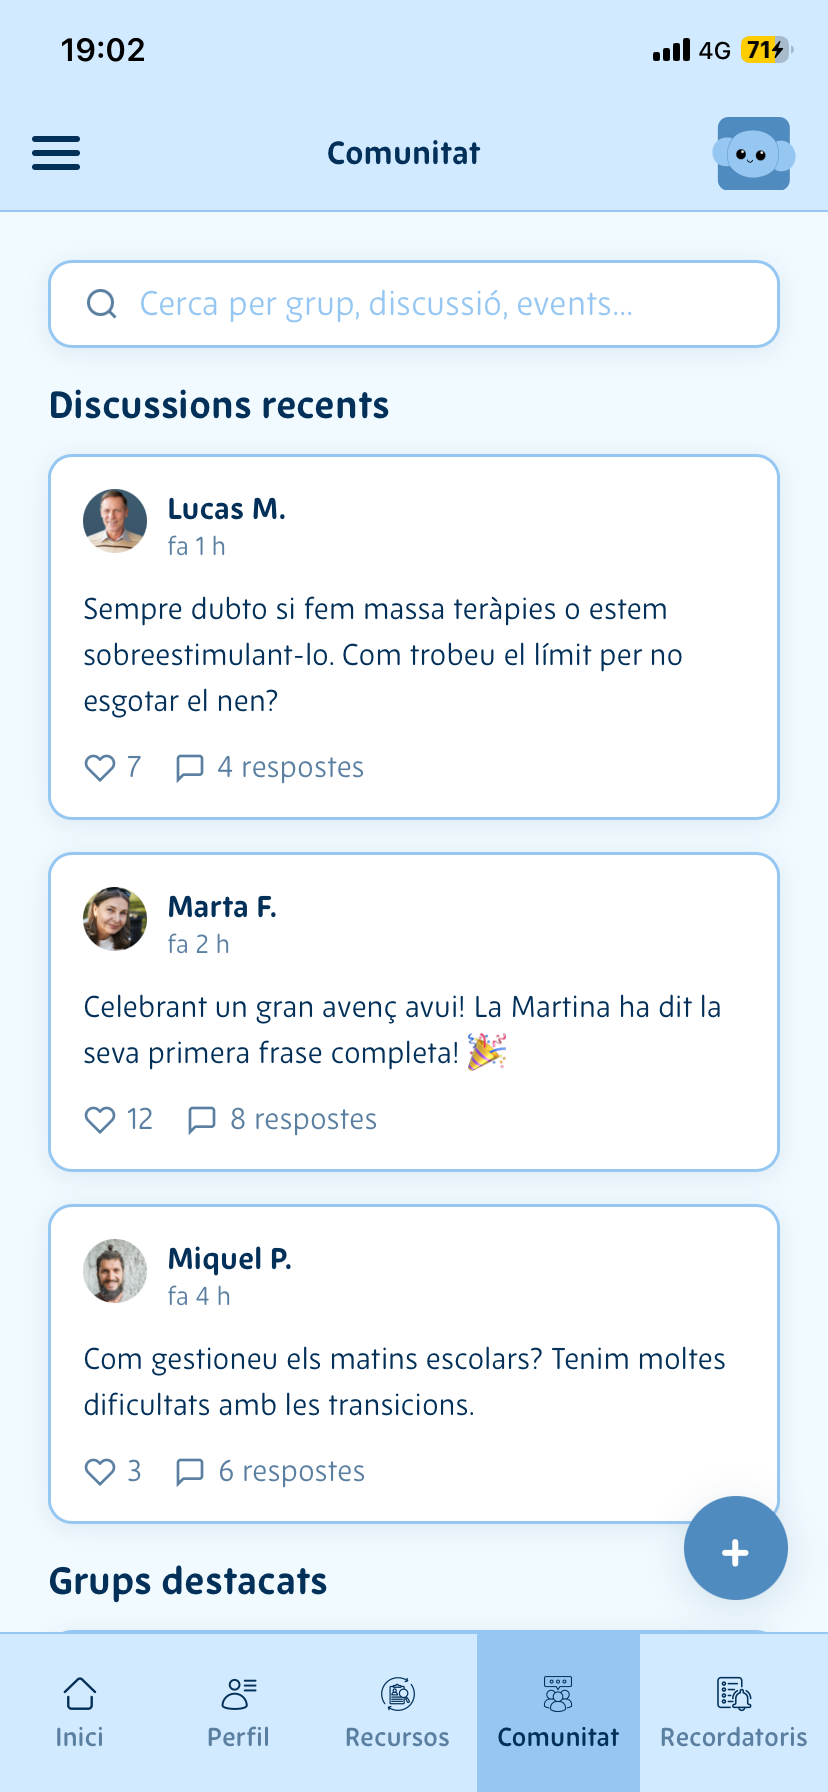
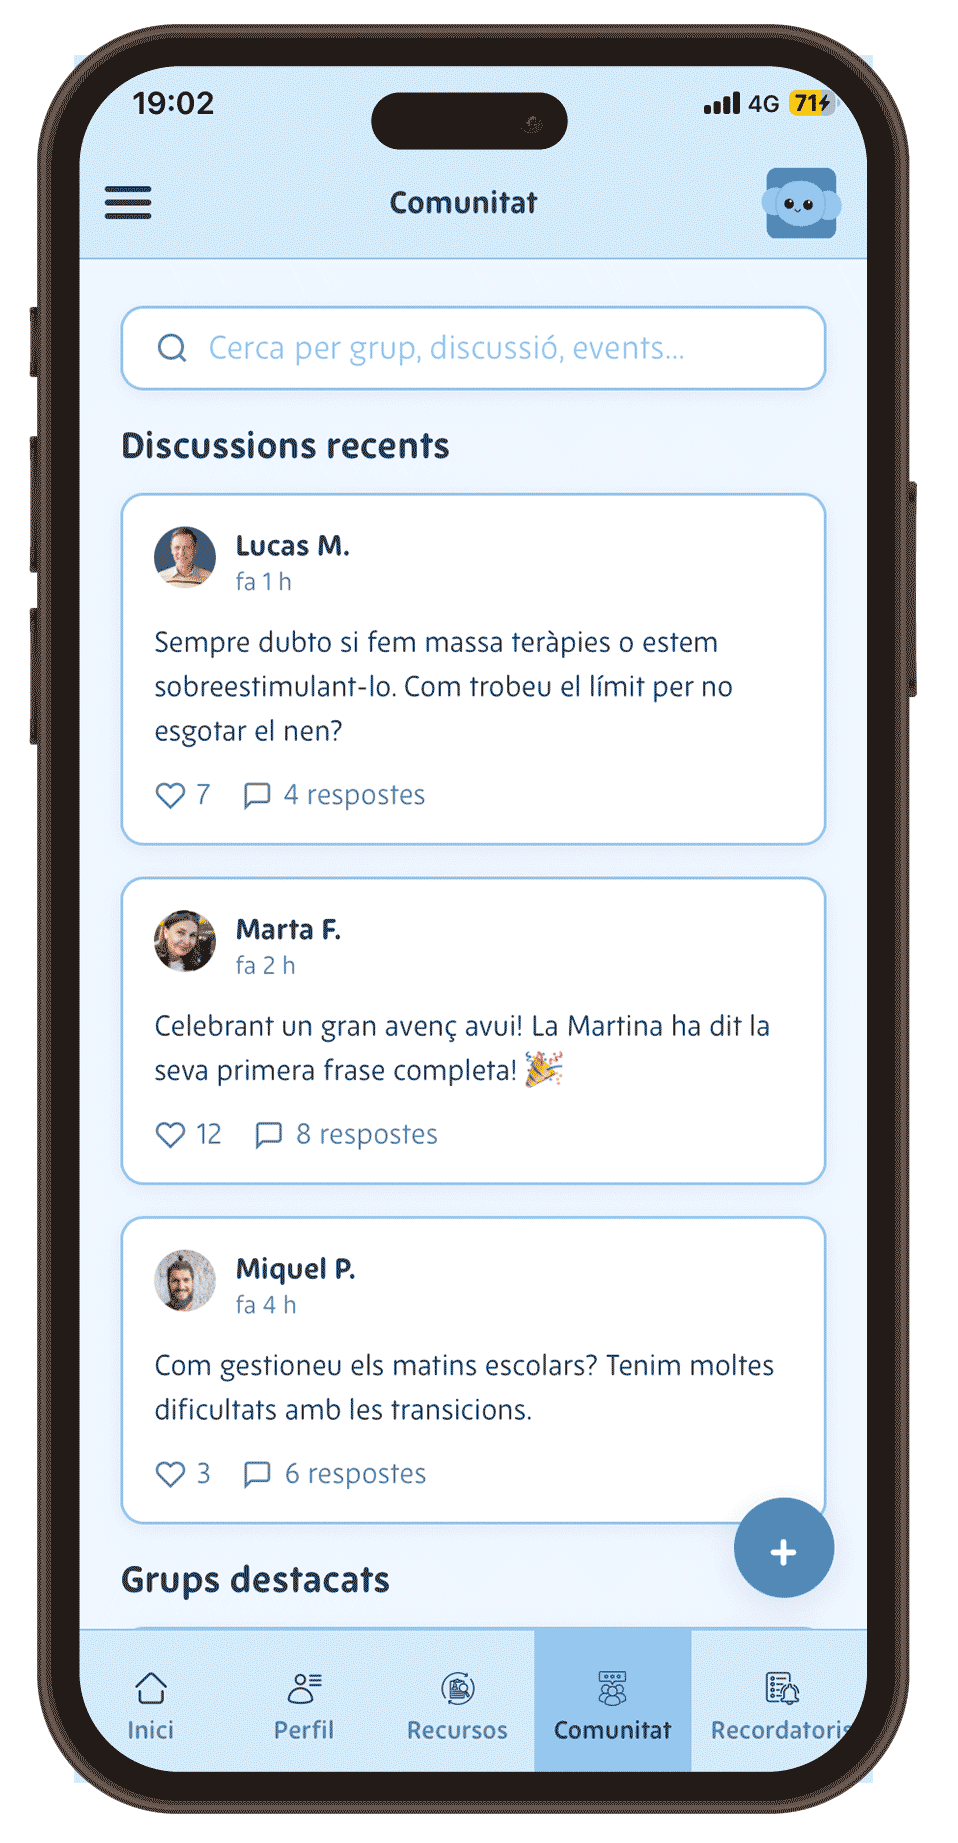
vane

diff --git a/index.html b/index.html
@@ -41,7 +41,7 @@
     </section>
 
 <section class="descarga">
-    <a href="#" class="boton-imagen-descarga">
+    <a href="https://app-espectre.github.io/app/" class="boton-imagen-descarga">
         <img src="img/descarga.png" alt="Descargar App" class="img-descarga">
     </a>
     <a href="https://xd.adobe.com/view/726c6395-6bac-452a-8114-ff030730baf1-273f/" class="boton-link" target="_blank">Prototip</a>
@@ -63,7 +63,7 @@
 
     <section class="informacion fade-left" >
         <div class="texto-informacion" >
-            <img src="img/Capturas/recursos_mockup.PNG" class="large-img">
+            <img src="img/Capturas/recursos.png" class="large-img">
         </div>
         <div class="texto-informacion">
             <h3>Recursos</h3>
@@ -87,18 +87,18 @@ A més, rebràs notificacions uns dies abans de cada cita, per ajudar-te a prepa
             <p>La secció de Comunitat és un espai on els pares i mares poden connectar amb altres famílies en situacions similars.
 Aquí podràs veure publicacions, compartir experiències i resoldre dubtes. <br>
 <br>
-També podràs unir-te a grups d'interès sobre temes concrets i parlar amb altres usuaris per intercanviar suport i consells. <br>
+També podràs unir-te a grups d'interès sobre temes concrets i parlar amb altres ºusuaris per intercanviar suport i consells. <br>
 És un lloc per acompanyar-se, aprendre i no sentir-se sol en el procés.</p>
         </div>
         <div class="imagen-informacion">
-            <img src="img/Professionals-1.svg" class="large-img">
+            <img src="img/Capturas/comunitat.png" class="large-img">
         </div>
     </section>
 
 
     <section class="informacion fade-left">
         <div class="texto-informacion">
-            <img src="img/Professionals-1.svg" class="large-img">
+            <img src="img/Capturas/informe.png" class="large-img">
         </div>
         <div class="texto-informacion">
             <h3>Profesionals</h3>

diff --git a/style.css b/style.css
@@ -191,8 +191,8 @@ body {
 }
 
 .large-img {
-    width: 215px;
-    height: 400px;
+    width: 194px;
+    height: 360px;
     border-radius: 15px;
     object-fit: cover;
     display: flex;
@@ -347,7 +347,7 @@ footer {
 .form-group input,
 .form-group textarea {
     width: 100%;
-    padding: 1rem;
+    padding: 0.4rem;
     border: 1px solid #6688AA;
     border-radius: 12px;
     font-family: inherit;
@@ -601,8 +601,8 @@ html {
     }
 
     .large-img {
-        width: 180px;
-        height: 330px;
+        width: 162px;
+        height: 297px;
     }
 
     .member img {
